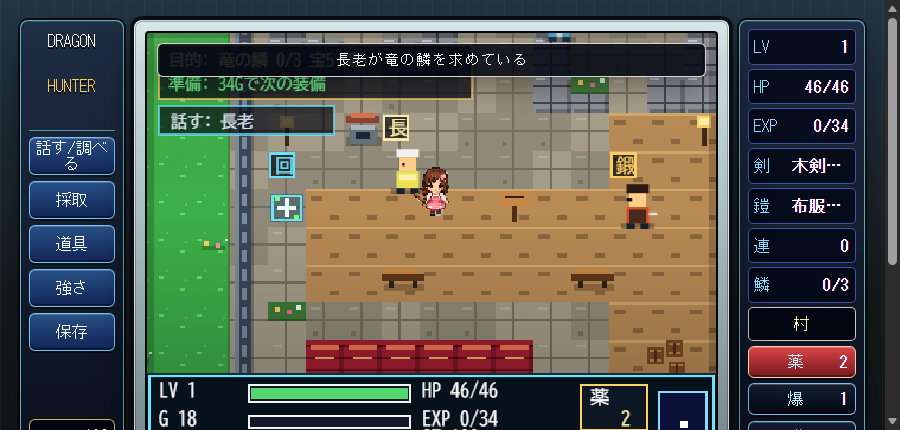
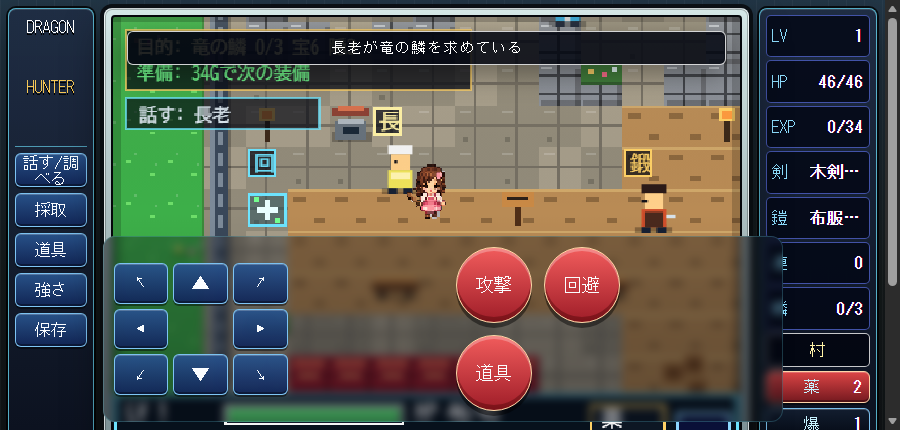
Add southeast survival reward

diff --git a/styles.css b/styles.css
@@ -381,8 +381,10 @@ canvas:focus {
   }
 }
 
-@media (max-width: 460px) {
+@media (max-width: 560px) {
   .playdeck {
+    width: 100%;
+    min-width: 0;
     grid-template-columns: 1fr;
     grid-template-areas:
       "screen"
@@ -390,14 +392,40 @@ canvas:focus {
       "status";
   }
 
+  .game-app {
+    place-items: stretch;
+    gap: 12px;
+  }
+
+  .screen-wrap {
+    width: 100%;
+    max-width: 100%;
+    overflow: hidden;
+  }
+
+  canvas {
+    width: 100%;
+    max-width: 100%;
+  }
+
+  .status-panel {
+    grid-template-columns: repeat(3, minmax(0, 1fr));
+  }
+
+  .zone,
+  .item-dock {
+    grid-column: span 3;
+  }
+
   .command-panel {
-    grid-template-columns: repeat(6, 1fr);
+    grid-template-columns: repeat(3, minmax(0, 1fr));
     grid-template-rows: auto;
     align-items: stretch;
   }
 
   .panel-title,
   .gold-box {
+    grid-column: span 3;
     font-size: 11px;
   }
 
@@ -419,6 +447,14 @@ canvas:focus {
     height: 118px;
   }
 
+  .touch-controls {
+    width: 100%;
+    max-width: none;
+    grid-template-columns: 1fr;
+    justify-items: center;
+    gap: 12px;
+  }
+
   .action-pad {
     grid-template-columns: repeat(2, 64px);
   }
@@ -426,5 +462,45 @@ canvas:focus {
   .action-pad button {
     width: 64px;
     height: 64px;
+  }
+}
+
+@media (max-height: 520px) and (min-width: 561px) and (max-width: 960px) {
+  .game-app {
+    place-items: start center;
+    gap: 8px;
+    padding: 8px 8px 148px;
+  }
+
+  .playdeck {
+    width: min(100%, 880px);
+    grid-template-columns: 86px minmax(320px, 1fr) 118px;
+  }
+
+  .screen-wrap {
+    padding: 6px;
+  }
+
+  .command-panel {
+    grid-template-rows: auto repeat(5, 34px) auto;
+    padding: 6px;
+  }
+
+  .status-panel {
+    padding: 6px;
+    gap: 3px;
+  }
+
+  .touch-controls {
+    position: fixed;
+    left: 10px;
+    right: 10px;
+    bottom: 8px;
+    width: auto;
+    max-width: 680px;
+    margin: 0 auto;
+    grid-template-columns: auto auto;
+    z-index: 10;
+    backdrop-filter: blur(4px);
   }
 }

diff --git a/scripts/verify-game-smoke.js b/scripts/verify-game-smoke.js
@@ -263,8 +263,10 @@ function assertSaveLoadAndEquipment() {
   player.sealCrest = true;
   player.hunterCharm = true;
   player.regenCharm = true;
+  player.trailCharm = true;
   state.chests.add("town-cache");
   state.chests.add("north-ruin");
+  state.chests.add("south-outpost");
   state.discoveries.add("river-spring");
   state.discoveries.add("hunter-cache");
   state.guardianDefeated = true;
@@ -279,7 +281,14 @@ function assertSaveLoadAndEquipment() {
   assert(restored.player.weapon === 3, "weapon rank should persist");
   assert(restored.player.armor === 3, "armor rank should persist");
   assert(restored.player.regenCharm, "regen charm should persist");
-  assert(restored.state.chests.size === 2, "opened chests should persist");
+  assert(restored.player.trailCharm, "trail charm should persist");
+  const baseline = createRuntime();
+  baseline.player.armor = restored.player.armor;
+  baseline.player.weapon = restored.player.weapon;
+  baseline.runtime.refreshDerivedStats();
+  assert(restored.runtime.dashCost() < baseline.runtime.dashCost(), "trail charm should reduce dash cost after load");
+  assert(restored.runtime.playerMoveSpeed() > baseline.runtime.playerMoveSpeed(), "trail charm should improve movement speed after load");
+  assert(restored.state.chests.size === 3, "opened chests should persist");
   assert(restored.state.discoveries.size === 2, "discoveries should persist");
   assert(restored.state.guardianDefeated && restored.state.bossDefeated && restored.state.elderReported, "boss/clear flags should persist");
 

diff --git a/src/systems/combat.js b/src/systems/combat.js
@@ -34,14 +34,16 @@
   function playerMoveSpeed(context) {
     const { player } = requireCombatContext(context);
     const armorMoveBonus = player.armor >= 1 ? 4 * WORLD_SCALE : 0;
+    const trailMoveBonus = player.trailCharm ? 5 * WORLD_SCALE : 0;
     const slowPenalty = player.slow > 0 ? 0.72 : 1;
-    return (player.speed + armorMoveBonus) * slowPenalty;
+    return (player.speed + armorMoveBonus + trailMoveBonus) * slowPenalty;
   }
 
   function dashCost(context) {
     const { player } = requireCombatContext(context);
     const armorDiscount = player.armor >= 1 ? 6 : 0;
-    return Math.max(20, DASH_COST - armorDiscount);
+    const trailDiscount = player.trailCharm ? 8 : 0;
+    return Math.max(18, DASH_COST - armorDiscount - trailDiscount);
   }
 
   function weaponDamageMultiplier(context, monster, pDot, mDot) {
@@ -66,7 +68,7 @@
 
   function refreshDerivedStats(context) {
     const { player } = requireCombatContext(context);
-    player.staminaMax = 100 + (player.hunterCharm ? 15 : 0);
+    player.staminaMax = 100 + (player.hunterCharm ? 15 : 0) + (player.trailCharm ? 10 : 0);
     player.stamina = Math.min(player.stamina, player.staminaMax);
   }
 

diff --git a/src/systems/ui.js b/src/systems/ui.js
@@ -73,7 +73,7 @@
         lines: [
           `HP ${Math.ceil(player.hp)}/${player.hpMax} ST ${Math.floor(player.stamina)}/${player.staminaMax}`,
           `回避 ${dashCost()}ST 再生 ${regenRate().toFixed(1)}/秒`,
-          `状態 ${player.burn > 0 ? "燃焼" : player.slow > 0 ? "鈍足" : "通常"}`,
+          `状態 ${player.burn > 0 ? "燃焼" : player.slow > 0 ? "鈍足" : player.trailCharm ? "旅鈴" : "通常"}`,
         ],
       },
       {
@@ -81,7 +81,7 @@
         lines: [
           `薬${player.potions} 爆${player.bombs} 護${player.wards}`,
           `鱗 ${player.scales}/3 紋 ${player.sealCrest ? "有" : "無"}`,
-          `宝箱 ${state.chests.size}/${TREASURE_CHESTS.length}`,
+          `宝箱 ${state.chests.size}/${TREASURE_CHESTS.length} 鈴${player.trailCharm ? "有" : "無"}`,
         ],
       },
     ];

diff --git a/src/systems/save.js b/src/systems/save.js
@@ -55,6 +55,7 @@
         sealCrest: player.sealCrest,
         hunterCharm: player.hunterCharm,
         regenCharm: player.regenCharm,
+        trailCharm: player.trailCharm,
       },
       spawnedBoss: state.spawnedBoss,
       bossDefeated: state.bossDefeated,
@@ -79,6 +80,7 @@
       player.sealCrest = Boolean(player.sealCrest);
       player.hunterCharm = Boolean(player.hunterCharm);
       player.regenCharm = Boolean(player.regenCharm);
+      player.trailCharm = Boolean(player.trailCharm);
       refreshDerivedStats();
       player.stamina = player.staminaMax;
       player.attackCooldown = 0;
@@ -127,6 +129,7 @@
       sealCrest: false,
       hunterCharm: false,
       regenCharm: false,
+      trailCharm: false,
       invuln: 0,
       guard: 0,
       slow: 0,

diff --git a/src/systems/rewards.js b/src/systems/rewards.js
@@ -66,7 +66,7 @@
   }
 
   function grantChestReward(context, reward) {
-    const { player, say } = requireRewardContext(context);
+    const { player, say, refreshDerivedStats } = requireRewardContext(context);
     if (reward === "starter") {
       player.gold += 45;
       player.potions = Math.min(9, player.potions + 2);
@@ -87,6 +87,12 @@
     } else if (reward === "scale") {
       player.scales = Math.min(3, player.scales + 1);
       say("古い竜の鱗を見つけた");
+    } else if (reward === "trail") {
+      player.trailCharm = true;
+      refreshDerivedStats?.();
+      player.stamina = player.staminaMax;
+      player.wards = Math.min(9, player.wards + 1);
+      say("旅人の鈴を見つけた。遠征の足取りが軽くなった");
     }
   }
 

diff --git a/src/systems/player.js b/src/systems/player.js
@@ -123,7 +123,8 @@
     }
     player.attackCooldown = Math.max(0, player.attackCooldown - dt);
     player.dashCooldown = Math.max(0, player.dashCooldown - dt);
-    player.stamina = Math.min(player.staminaMax, player.stamina + dt * 0.032);
+    const staminaRegen = player.trailCharm ? 0.043 : 0.032;
+    player.stamina = Math.min(player.staminaMax, player.stamina + dt * staminaRegen);
     player.comboTimer = Math.max(0, player.comboTimer - dt);
     if (player.comboTimer <= 0) player.combo = 0;
     state.searchCooldown = Math.max(0, state.searchCooldown - dt);

diff --git a/src/data/definitions.js b/src/data/definitions.js
@@ -21,6 +21,7 @@
     { id: "north-ruin", x: 18, y: 17, reward: "weapon" },
     { id: "river-shrine", x: 42, y: 33, reward: "ward" },
     { id: "east-grove", x: 56, y: 43, reward: "armor" },
+    { id: "south-outpost", x: 72, y: 58, reward: "trail" },
     { id: "dragon-cache", x: 50, y: 16, reward: "scale" },
   ];
   const DISCOVERY_POINTS = [

diff --git a/src/core/state.js b/src/core/state.js
@@ -71,6 +71,7 @@
       sealCrest: false,
       hunterCharm: false,
       regenCharm: false,
+      trailCharm: false,
       stamina: 100,
       staminaMax: 100,
       attackCooldown: 0,

diff --git a/NEXT_CODEX_TASK.md b/NEXT_CODEX_TASK.md
@@ -98,7 +98,7 @@ If browser QA is still unavailable:
 
 Design focus for the next gameplay pass:
 
-* The east/southeast expansion should become a real reason to leave the safe village longer.
+* The east/southeast expansion now has a first real reason to leave the safe village longer: the southeast outpost traveler bell.
 * Prefer rewards that extend survivable range over plain gold.
 * Keep the village safe and readable.
 * Keep terrain edits in `src/data/maps/world.js`.
@@ -121,12 +121,15 @@ Design focus for the next gameplay pass:
 * Added `docs/MAP_EDITING.md` and whole-map previews at `docs/world-map-preview.png` and `docs/world-map-preview.svg`.
 * Added `scripts/verify-game-smoke.js` for repeatable VM verification.
 * Added `scripts/generate-map-preview.js` and `scripts/generate-map-preview.ps1` for fixed-map preview regeneration.
+* Added `south-outpost`, a southeast chest that grants the traveler bell.
+* Added `trailCharm` persistence and effects: movement speed, max stamina, stamina regeneration, and dash cost.
+* Improved small-screen CSS after Edge rendering QA: portrait uses a stronger single-column layout, and small landscape keeps touch controls fixed near the bottom.
 
 ## Remaining Critical / High Priority
 
 * Run interactive desktop browser QA.
 * Run interactive mobile-like viewport QA.
-* Fix mobile layout overflow observed in Edge screenshots: portrait clips the right side of the game/action controls, and landscape still requires vertical scrolling for touch controls.
+* Continue interactive mobile QA. CSS was improved, but portrait remains dense and should be judged by hands-on play.
 * Perform a full manual playthrough from new save to red dragon defeat and elder report.
 * Verify that enemy AI, contact combat, projectiles, monster defeat, level-up, Guardian defeat, red dragon defeat, and elder report still work after the `monsters.js` split.
 * Verify save/load after opened chests, discovered hidden rewards, equipment upgrades, seal crest, boss defeat, and elder report.
@@ -143,6 +146,12 @@ Recent browser rendering result:
 * Desktop renders correctly enough to continue QA: canvas, player, village, HUD, command buttons, and touch controls are visible.
 * Mobile portrait and landscape render, but layout overflow remains a real usability issue.
 * This was rendering QA, not interactive play QA.
+
+Recent gameplay completion result:
+
+* The southeast expansion now contains `south-outpost`, a one-time chest that gives the traveler bell.
+* The traveler bell makes long-distance exploration easier by improving movement, stamina capacity, stamina recovery, and dash cost.
+* VM smoke verifies reachability, persistence, and stat effects.
 
 ## First Task For Next Codex
 

diff --git a/DEVELOPMENT_LOG.md b/DEVELOPMENT_LOG.md
@@ -184,3 +184,29 @@
 - Mobile landscape result: the main screen renders, but vertical scrolling is still needed to reach touch controls.
 - Edge startup log check did not find fatal game script errors such as `Uncaught`, `ReferenceError`, `TypeError`, `SyntaxError`, or missing local files. The only captured warning was an Edge registry observation warning unrelated to the game.
 - Remaining risk: this pass verified real browser rendering through screenshots, not live manual input. Keyboard/touch movement, combat interaction, save/load UI, and full fresh-save playthrough should still be tested interactively.
+
+## 2026-06-06 Southeast Survival Reward Pass
+- Goal: improve actual game completion value, not refactoring. Chosen task was to make the fixed east/southeast expansion more meaningful for survival-range expansion.
+- Added a new one-time treasure chest at the southeast outpost: `south-outpost`.
+- The southeast outpost chest grants the new `trailCharm` / traveler bell reward.
+- Traveler bell effects:
+  - Slightly increases movement speed.
+  - Reduces dash stamina cost.
+  - Increases maximum stamina slightly.
+  - Improves stamina regeneration slightly.
+  - Fully restores stamina when obtained.
+  - Adds one ward as a small safety reward for the long return trip.
+- Added `trailCharm` to initial player state, save data, load data, reset data, derived stat refresh, and the strength/info panel.
+- Updated `scripts/verify-game-smoke.js` to verify the new chest is reachable, persists through save/load, and that the traveler bell improves movement/dash stats after load.
+- Improved mobile browser usability:
+  - 560px and narrower now use a stronger single-column layout.
+  - Small portrait layouts constrain the game screen, command panel, status panel, and touch controls to the viewport width.
+  - Small landscape layouts pin touch controls near the bottom so they are usable without scrolling down to the controls.
+- Verification:
+  - Bundled Node syntax checks passed for all JavaScript files under `src/` and `scripts/`.
+  - `scripts/verify-game-smoke.js` passed.
+  - `git diff --check` passed with line-ending warnings only.
+  - Microsoft Edge headless screenshots were regenerated for desktop, mobile portrait, and mobile landscape.
+- Remaining risk:
+  - Interactive manual play from a new save is still needed to tune whether the southeast reward timing feels fair.
+  - Mobile portrait still feels dense; it is more usable than before, but further UI scaling may be useful after hands-on testing.

diff --git a/TODO.md b/TODO.md
@@ -13,8 +13,8 @@ This is the recommended order for the next development passes. Do not treat the 
 
 ### High
 
-* Turn the east/southeast expansion into a deliberate survival-range destination rather than unused space.
-* Add or tune one exploration reward that extends survivable range, such as local recovery, sustain, damage reduction, shortcut access, or area-specific protection.
+* Tune the new southeast outpost traveler bell through manual playtesting: it should make long-distance exploration feel better without making dangerous areas safe too early.
+* Add one more meaningful route reason in the east/southeast area only if the traveler bell alone does not make the expansion feel like a destination.
 * Balance gold/EXP/shop prices so the first armor purchase, level 4 timing, Guardian readiness, and dragon readiness feel natural in a normal playthrough.
 * Improve equipment/item review only where it helps decisions: current gear, next upgrade value, regeneration, boss requirements, and progression items.
 * Add a short elder ending/report sequence after the survival route is verified.
@@ -85,6 +85,10 @@ This is the recommended order for the next development passes. Do not treat the 
 * Verified save/load persistence for chests, discoveries, equipment, charms, boss flags, and elder report state with a VM smoke test.
 * Added `scripts/verify-game-smoke.js` for repeatable VM checks covering script order, map reachability, save/load, equipment anti-downgrade, Guardian, Red Dragon, and elder report flow.
 * Added `scripts/generate-map-preview.js` and `scripts/generate-map-preview.ps1` for regenerating fixed-map previews after terrain edits.
+* Added the southeast outpost `south-outpost` chest.
+* Added the traveler bell survival reward, which improves movement speed, stamina capacity, stamina regeneration, and dash cost.
+* Added save/load persistence and VM smoke verification for the traveler bell.
+* Improved mobile browser layout so small portrait uses a stronger single-column layout and small landscape keeps touch controls available near the bottom.
 
 ## Critical Playtest Issues - Addressed This Pass
 
